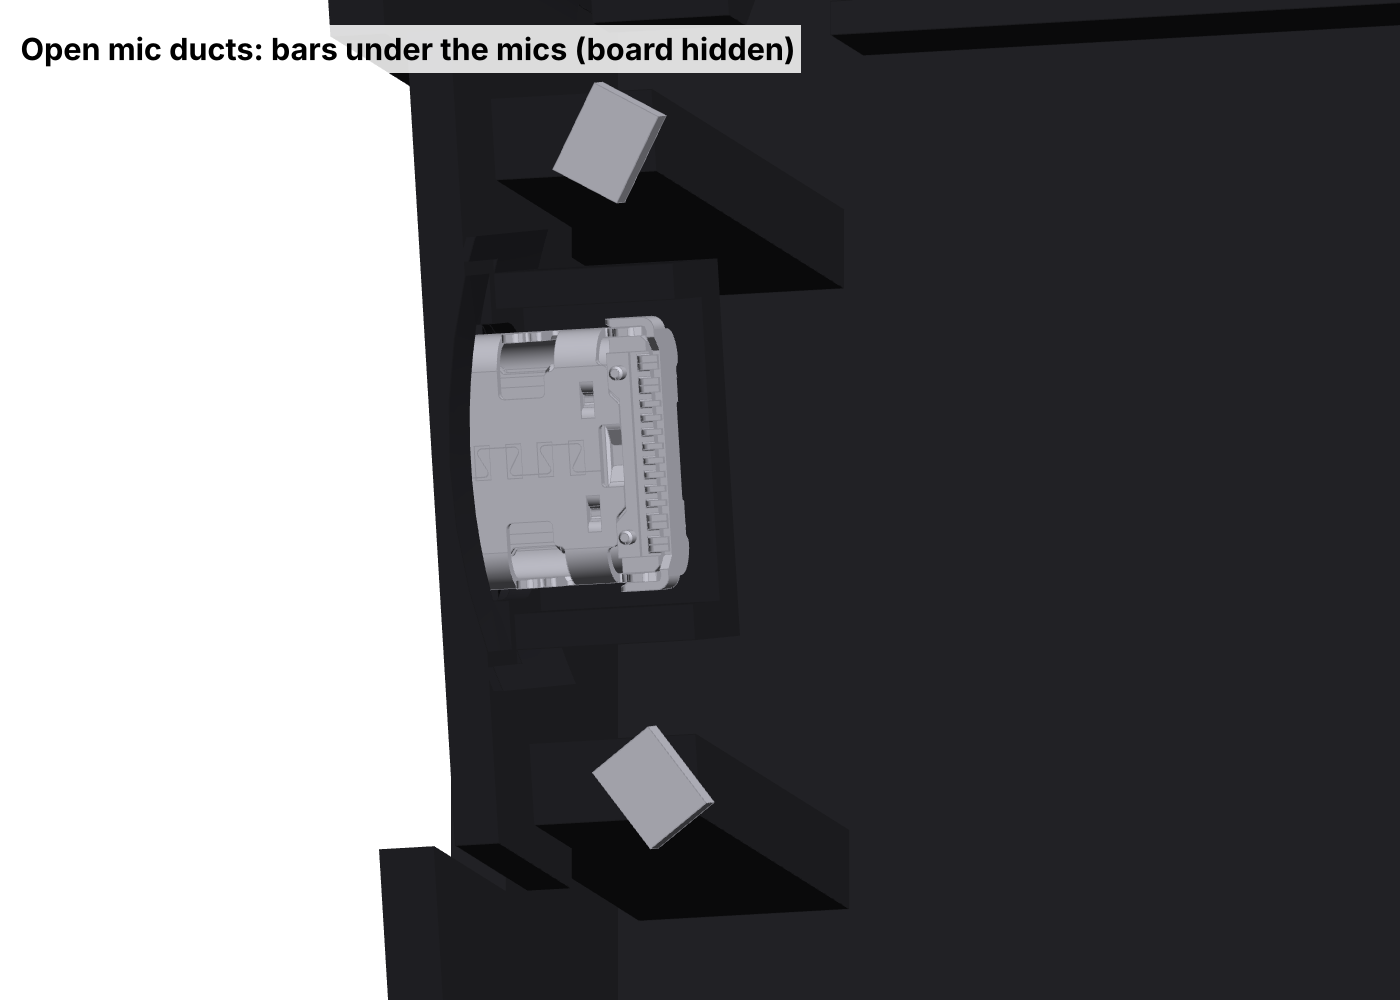
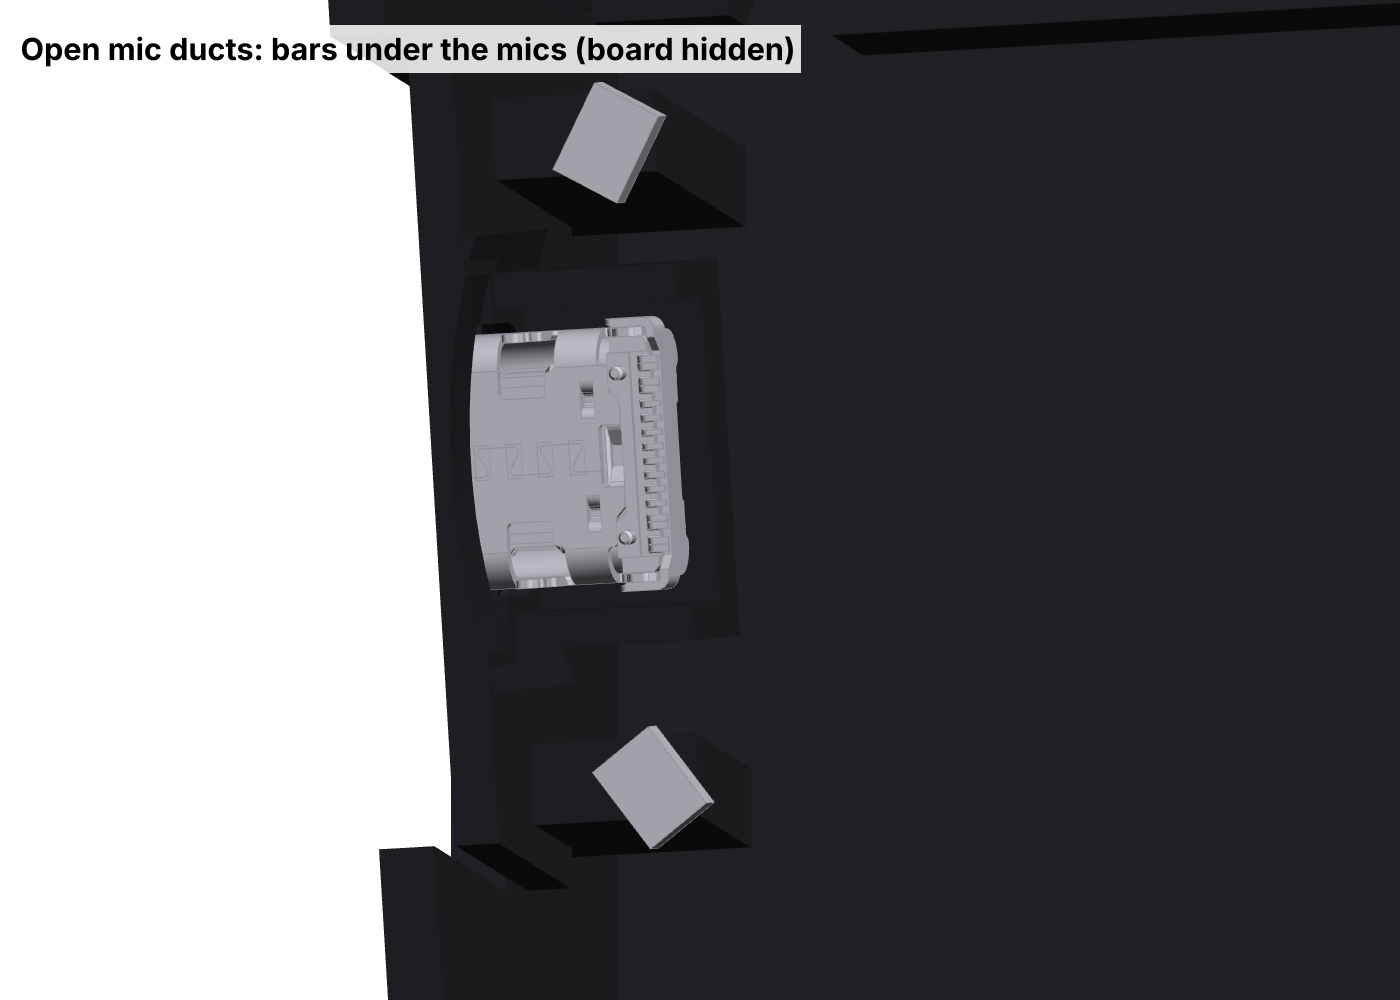
Phase 2: PWR push pin + guide tube, speaker grille/pocket, mic bars and USB block kept above the battery
Claude-Session: https://claude.ai/code/session_01LW7dNkPFWNphqvwFHeDcLz

Changed region(s): [[0.43, 0.837, 0.6143, 0.93], [0.43, 0.217, 0.6143, 0.31]]

diff --git a/enclosure/lfcase/enclosure.py b/enclosure/lfcase/enclosure.py
@@ -200,6 +200,7 @@ def port_features(b, zb):
     blk_w = blk.moved(bf_loc(zb)).intersect(halfspace_bf(zb, P.SEAM_Z, above=False))
     # keep the PCB/PMMA outline clear: the web touches it, nothing may enter it
     blk_w = blk_w.cut(to_wf(A.cyl(P.USB_PCB_CONTACT_R, -0.05, P.SEAM_Z + 2), zb))
+    blk_w = blk_w.cut(_box(*battery_box()))                       # stays above the battery (support under it)
     return A.solidify(b.fuse(blk_w))
 
 
@@ -262,7 +263,8 @@ def mic_features(b, zb):
         c = bf_point_to_wf((cx, cy, z_top - d / 2 - P.MIC_DUCT_COVER), zb)     # duct centre under the port
         hw = d / 2 + P.MIC_BAR_SIDE
         bar = (_box((fx_w - 0.01, c[1] - hw, P.CASE_FLOOR - 0.01), (c[0] + hw, c[1] + hw, 100))
-               .intersect(halfspace_bf(zb, z_top, above=False)).intersect(cav))
+               .intersect(halfspace_bf(zb, z_top, above=False)).intersect(cav)
+               .cut(_box(*battery_box())))                                      # hangs over the battery: support
         x_out, x_in = fx_w - 1.0, c[0]
         L = x_in - x_out
         q = d / 2 * math.sqrt(2)
@@ -273,3 +275,143 @@ def mic_features(b, zb):
         b = b.fuse(bar).cut(tear).cut(riser)
         info[mic] = dict(duct_len=round(x_in - fx_w + port[2] - c[2], 2), exit=(round(x_out, 2), round(c[1], 2), round(c[2], 2)))
     return A.solidify(b), info
+
+
+# ------------------------------------------------------------------ PWR push pin (KEY2)
+def _pin_frame():
+    key = P.PWR_IS
+    a = math.radians(getattr(P, f"{key}_PRESS_ANGLE"))
+    tip = getattr(P, f"{key}_TIP_CENTER")
+    tz = getattr(P, f"{key}_TIP_Z")
+    return a, tip, (tz[0] + tz[1]) / 2
+
+
+def _local_box(s0, s1, l0, l1, z0, z1):
+    """Box in the pin frame (s outward along the press axis from the plunger tip face, l across, BF z)."""
+    a, tip, _ = _pin_frame()
+    b = cq.Solid.makeBox(s1 - s0, l1 - l0, z1 - z0, pnt=cq.Vector(s0, l0, z0))
+    return b.rotate(cq.Vector(0, 0, 0), cq.Vector(0, 0, 1), math.degrees(a)).moved(cq.Location(cq.Vector(tip[0], tip[1], 0)))
+
+
+def _pin_dims():
+    nw, nh, nl = P.PWR_NUB
+    _, _, zc = _pin_frame()
+    l0 = -nw / 2                                       # face A (print bed side) flush with the nub
+    l1 = l0 + P.PWR_PIN_W
+    z1 = P.PWR_PIN_TOP
+    z0 = z1 - P.PWR_PIN_H
+    g0 = P.FLEX_REST_GAP
+    s_col0 = g0 + nl
+    s_col1 = s_col0 + P.PWR_COLLAR_LEN
+    return dict(nw=nw, nh=nh, zc=zc, l0=l0, l1=l1, z0=z0, z1=z1, g0=g0, s_col0=s_col0, s_col1=s_col1)
+
+
+def _pin_exit_s(zb):
+    """Distance along the axis (shaft centre line) where it leaves the case outer surface."""
+    d = _pin_dims()
+    a, tip, _ = _pin_frame()
+    lc, zc = (d["l0"] + d["l1"]) / 2, (d["z0"] + d["z1"]) / 2
+    body = outer_body(zb)
+    s = d["s_col1"]
+    while s < 80:
+        p = (tip[0] + s * math.cos(a) - lc * math.sin(a), tip[1] + s * math.sin(a) + lc * math.cos(a), zc)
+        if not body.isInside(cq.Vector(*bf_point_to_wf(p, zb)), 1e-4):
+            return s
+        s += 0.05
+    raise RuntimeError("pin axis never leaves the case")
+
+
+def pwr_pin(zb):
+    """The separate pin, assembled position (world). Rest: collar against the tube's inner end."""
+    d = _pin_dims()
+    s_out = _pin_exit_s(zb) - P.PWR_PIN_RECESS - P.PWR_DIMPLE_DEPTH
+    nub = _local_box(d["g0"], d["s_col0"] + 0.01, d["l0"], d["l0"] + d["nw"], d["zc"] - d["nh"] / 2, d["zc"] + d["nh"] / 2)
+    col = _local_box(d["s_col0"], d["s_col1"], d["l0"], d["l1"] + P.PWR_COLLAR[0], d["z0"] - P.PWR_COLLAR[1], d["z1"])
+    shaft = _local_box(d["s_col1"] - 0.01, s_out, d["l0"], d["l1"], d["z0"], d["z1"])
+    return to_wf(nub.fuse(col).fuse(shaft).clean(), zb)
+
+
+def pwr_features(b, zb):
+    """Guide tube from the collar stop to the outer wall, a fin under it (45 deg underside), finger dimple."""
+    d = _pin_dims()
+    c, w = P.PWR_PIN_CLEAR, P.PWR_TUBE_WALL
+    s_t0 = d["s_col1"] + 0.0
+    s_x = _pin_exit_s(zb)
+    tube = _local_box(s_t0, s_x + 5, d["l0"] - c - w, d["l1"] + c + w, d["z0"] - c - w, d["z1"] + c + w)
+    bore = _local_box(s_t0 - 1, s_x + 6, d["l0"] - c, d["l1"] + c, d["z0"] - c, d["z1"] + c)
+    # room for the collar to move in when pressed
+    col_room = _local_box(d["s_col0"] - 1.5, s_t0, d["l0"] - c, d["l1"] + P.PWR_COLLAR[0] + c, d["z0"] - P.PWR_COLLAR[1] - c, d["z1"] + c)
+    fin = _local_box(s_t0, s_x + 5, d["l0"] - c - w, d["l1"] + c + w, -60, d["z0"] - c - w + 0.01)
+    tube_w, bore_w, fin_w, room_w = (to_wf(x, zb) for x in (tube, bore, fin, col_room))
+    # fin underside: 45 deg in the world, rising toward the inner end of the tube
+    a, tip, _ = _pin_frame()
+    p_in = bf_point_to_wf((tip[0] + s_t0 * math.cos(a), tip[1] + s_t0 * math.sin(a), d["z0"] - c - w), zb)
+    u = bf_point_to_wf((tip[0] + math.cos(a), tip[1] + math.sin(a), 0), zb) - bf_point_to_wf((tip[0], tip[1], 0), zb)
+    uh = np.array([u[0], u[1], 0.0]); uh /= np.linalg.norm(uh)
+    # half-space z >= p_in.z - (x - p_in).uh  ->  normal (uh_x, uh_y, 1)/sqrt2 pointing up-outward
+    nrm = cq.Vector(uh[0], uh[1], 1.0).normalized()
+    big = cq.Solid.makeBox(400, 400, 400, pnt=cq.Vector(-200, -200, 0))
+    pl = cq.Plane(origin=cq.Vector(*p_in), xDir=cq.Vector(-uh[1], uh[0], 0), normal=nrm)
+    keep = big.moved(cq.Location(pl))
+    fin_w = fin_w.intersect(keep).intersect(_inner_cavity().fuse(outer_body(zb)))
+    shell = outer_body(zb)
+    add = tube_w.fuse(fin_w).intersect(shell).intersect(halfspace_bf(zb, P.SEAM_Z, above=False))
+    b = b.fuse(add).cut(bore_w).cut(room_w)
+    # finger dimple: shallow cone round the exit
+    lc, zc = (d["l0"] + d["l1"]) / 2, (d["z0"] + d["z1"]) / 2
+    ex = bf_point_to_wf((tip[0] + s_x * math.cos(a) - lc * math.sin(a), tip[1] + s_x * math.sin(a) + lc * math.cos(a), zc), zb)
+    cone = cq.Solid.makeCone(P.PWR_DIMPLE_D / 2 - P.PWR_DIMPLE_DEPTH, P.PWR_DIMPLE_D / 2 + 2, P.PWR_DIMPLE_DEPTH + 2,
+                             pnt=cq.Vector(*(ex - uh * (P.PWR_DIMPLE_DEPTH + 0.0))), dir=cq.Vector(*uh))
+    b = b.cut(cone)
+    return A.solidify(b), dict(exit=tuple(round(float(v), 2) for v in ex), s_exit=round(s_x, 2))
+
+
+# ------------------------------------------------------------------ speaker (C8 numbers, standing, fires out the right wall)
+def _teardrop_x(x0, x1, y, z, d):
+    """Horizontal hole along X, teardrop point up (prints without support)."""
+    q = d / 2 * math.sqrt(2)
+    return (cq.Workplane("YZ").workplane(offset=x0).center(y, z).circle(d / 2).extrude(x1 - x0).val()
+            .fuse(cq.Solid.makeBox(x1 - x0, q, q, pnt=cq.Vector(x0, y - q / 2, z - q / 2))
+                  .rotate(cq.Vector(0, y, z), cq.Vector(1, y, z), 45)))
+
+
+def speaker_features(b, zb):
+    """Grille through the right wall, seal rib on its inner face, grip ribs on the end walls, lead slot (+Y end, toward H3)."""
+    (sx0, sy0, sz0), (sx1, sy1, sz1) = speaker_box()
+    L, W = P.SPK_L, P.SPK_W
+    yc, zc = 0.0, sz0 + W / 2                      # speaker stands on the floor
+    x_out = footprint()[1]
+    # seal rib on the wall face (speaker front frame presses on it)
+    si, rw, rh = P.SPK_SEAL_INSET, P.SPK_SEAL_RIB_W, P.SPK_SEAL_RIB_H
+    a0, b0 = L / 2 - si + rw / 2, W / 2 - si + rw / 2
+    a1, b1 = L / 2 - si - rw / 2, W / 2 - si - rw / 2
+    rib = _box((sx1 - rh, yc - a0, zc - b0), (sx1 + 0.01, yc + a0, zc + b0)).cut(
+        _box((sx1 - rh - 1, yc - a1, zc - b1), (sx1 + 1, yc + a1, zc + b1)))
+    b = b.fuse(rib)
+    # grille: same hex / stadium pattern as C8, now in the YZ plane
+    gm, p = P.SPK_GRILLE_MARGIN, P.SPK_GRILLE_PITCH
+    gx, gy = L / 2 - gm, W / 2 - gm
+    pts, j, v = [], 0, -gy
+    while v <= gy + 1e-6:
+        u = -gx + (p / 2 if j % 2 else 0)
+        while u <= gx + 1e-6:
+            if abs(u) <= gx - gy or math.hypot(abs(u) - (gx - gy), v) <= gy:
+                pts.append((yc + u, zc + v))
+            u += p
+        v += p * math.sqrt(3) / 2
+        j += 1
+    holes = [_teardrop_x(sx1 - rh - 0.1, x_out + 1, y, z, P.SPK_GRILLE_HOLE_D) for y, z in pts]
+    b = b.cut(cq.Compound.makeCompound(holes))
+    # grip ribs on the two end walls (the speaker's 20 mm ends), C8 interference, centred on its thickness
+    gr = P.SPK_CLEAR + P.SPK_GRIP_RIB
+    xm = sx1 - rh - P.SPK_T / 2
+    for y0_, y1_ in ((sy0 - 0.01, sy0 + gr), (sy1 - gr, sy1 + 0.01)):
+        b = b.fuse(_box((xm - 0.4, y0_, sz0 + 2.0), (xm + 0.4, y1_, sz1 - 1.0)))
+    # lead slot: +Y end wall (H3 is on the +Y side of the board), from mid-height to the top
+    b = b.cut(_box((xm - P.SPK_LEAD_SLOT_W / 2, sy1 - 0.1, zc - P.SPK_LEAD_SLOT_W / 2), (xm + P.SPK_LEAD_SLOT_W / 2, sy1 + 1.4, sz1 + 1)))
+    return A.solidify(b), dict(holes=len(pts), centre=(round(xm, 2), yc, round(zc, 2)))
+
+
+def speaker_dummy():
+    (sx0, sy0, sz0), (sx1, sy1, sz1) = speaker_box()
+    return _box((sx1 - P.SPK_SEAL_RIB_H - P.SPK_T, -P.SPK_L / 2, sz0), (sx1 - P.SPK_SEAL_RIB_H, P.SPK_L / 2, sz0 + P.SPK_W))

diff --git a/enclosure/params.py b/enclosure/params.py
@@ -468,3 +468,16 @@ PORT_BAY_HALF_W = 14.0               # recess in the left wall around the USB-C 
 PORT_BAY_BELOW = 7.0                 # bay goes this far below the port centre
 MIC_DUCT_COVER = 1.0                 # Phase 2 open duct: plastic between the duct and the bar top
 MIC_BAR_SIDE = 0.8                   # bar wall either side of the duct
+
+# ---- Phase 2: PWR push pin (KEY2 sits ~14 mm inside the case wall, so a separate pin in a guide tube)
+PWR_PIN_W = 3.0                      # shaft, across (board plane)
+PWR_PIN_H = 2.4                      # shaft, board-normal; top 0.2 under the PCB back
+PWR_PIN_TOP = -0.2                   # board frame Z of the shaft top
+PWR_NUB = (1.4, 0.7, 1.2)            # tip nub w x h x length (fits under the PCB, centred on the plunger)
+PWR_COLLAR = (1.2, 1.2)              # collar: extra width (one side) x extra depth (down), length below
+PWR_COLLAR_LEN = 1.2
+PWR_PIN_CLEAR = 0.25                 # bore clearance per side
+PWR_TUBE_WALL = 1.2
+PWR_PIN_RECESS = 0.3                 # outer end below the case surface at rest
+PWR_DIMPLE_D = 7.0                   # finger dimple round the pin end
+PWR_DIMPLE_DEPTH = 1.2
